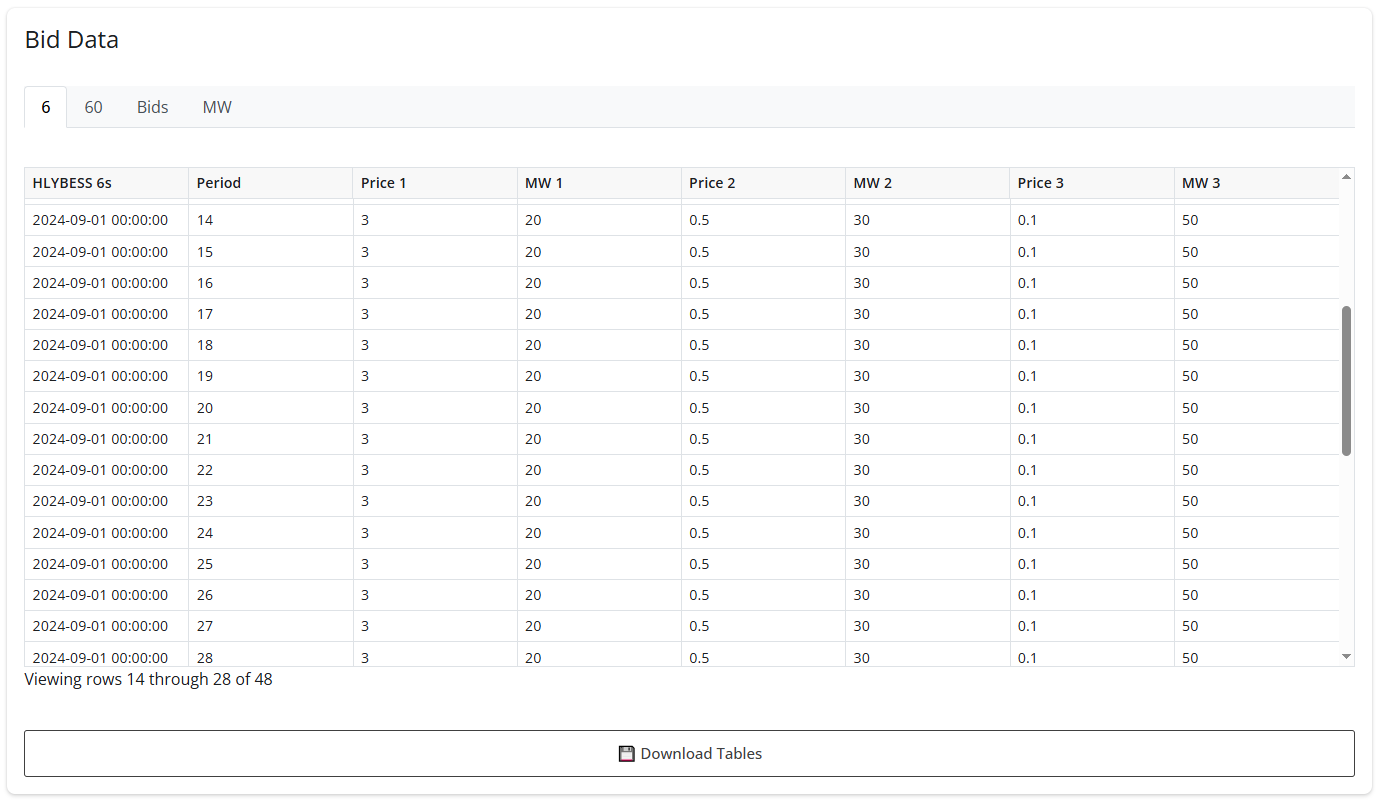
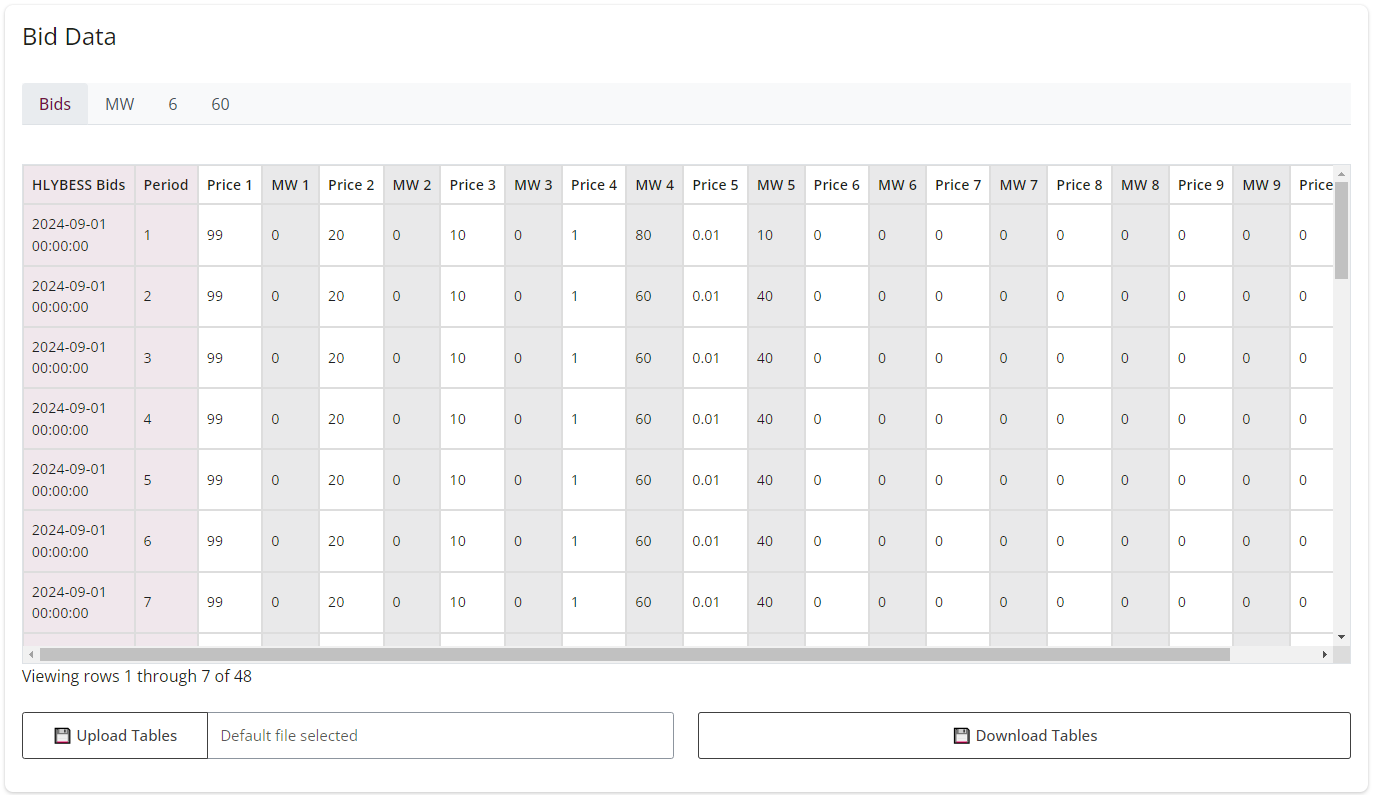
v1.0.1

diff --git a/index.html b/index.html
@@ -87,7 +87,10 @@
 
                 <h2>Supported Versions:</h2>
              
-                <p id="sidebar"><b>Version 1.0.0</b></p>
+                <p id="sidebar">
+                    Version 1.0.0 - First release<br>
+                    <b>Version 1.0.1</b> - New feature: upload button
+                </p>
                 Each version can be used in its demo version, which uses the app's local files.
                  
                 <div class="divider" style="width:24%; margin:30px 0;"></div>        
@@ -170,7 +173,7 @@
                 <h3>Offering summary</h3>
                 
                 <p>
-                This table shows the actual offer volumes from the pervious offer period:
+                This table shows the actual offer volumes from the pervious offer period.
                 <br>
                 These volumes will not always match the amounts in the offer table is due to the curtailment for over offering among other reasons. 
                 <br>
@@ -206,7 +209,7 @@
                 <p> 
                     This graph represents the power dispatched during the simulation for the simulation date, over 48 trading periods. 
                     It shows the various dispatch components, including FIR, SIR, load and generation, and their forecasts when active (see control buttons). 
-                    Like all the other graphs, It can be displayed in full screen mode (click on the icon at the bottom left when you move the mouse over the graph), 
+                    Like all the other graphs, It can be displayed in full screen mode (click on the icon at the bottom right when hovering), 
                     saved as a png and zoomed in/out.
                     <br id="plot2">
                 </p>
@@ -222,7 +225,7 @@
                 <img src="assets/forecast_plot.png" class="center-image" style="width: 80%; height: auto;">
                 <p>
                     These 3 graphs (spot + reserves) show the price forecasts for the simulation day and for the start of the following day. 
-                    There are 3 scenarios: a base one and two showing prices with +100 MWh and -100 MWh of demand. 
+                    There are 3 scenarios: a base one and two showing prices with +100 MW and -100 MW of demand. 
                     The offer period is represented by a red line that can be hidden by clicking on its name in the legend.
                     <br id="tables">
                 </p>
@@ -231,14 +234,11 @@
                 <h3>Bid tables</h3>
                 <img src="assets/tables.png" class="center-image" style="width: 80%; height: auto;">
                 <p>
-                    These tables represent default offers for several bands and for each period of the simulation date. There are 4 tabs:
-                    <ul>
-                        <li>6: ...</li>
-                        <li>60: ...</li>
-                        <li>Bids: ...</li>
-                        <li>MW: ...</li>
-                    </ul>
-                    Modify a cell by double-clicking on it. Download the modified tables by clicking on the "Download Tables" button.
+                    These tables represent default offers for several bands and for each period of the simulation date.<br>
+                    Modify a cell by double-clicking on it.<br>By clicking on "Upload Tables", you can upload an Excel file (.xlsx) in order to modify the offers more easily. 
+                    If no file is provided, a default Excel file is used. 
+                    Please follow its format (use the download button to save it) to avoid uploading/processing problems and watch out for strange characters in your data.<br>
+                    By clicking on "Download tables", you can download the table data in an Excel file (.xlsx) with all the changes you have made.
                 </p>
                 
                 
